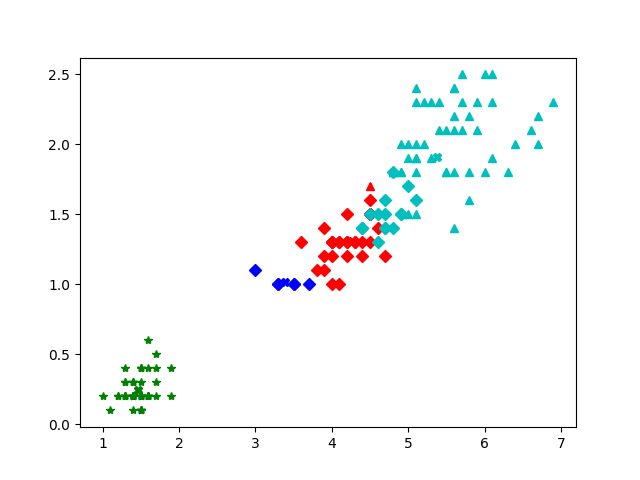
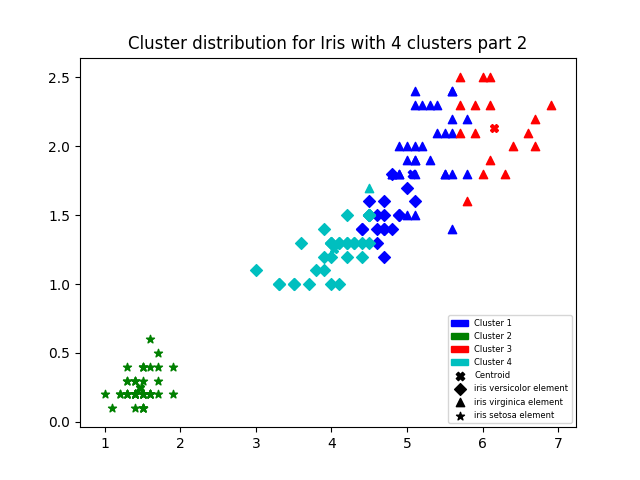
graficas con indices

diff --git a/irisCluster.py b/irisCluster.py
@@ -1,8 +1,10 @@
 import numpy as np
+from collections import OrderedDict
 from cluster import Cluster,kmeans,compress,createClusters
 import os.path
 import matplotlib.pyplot as plt
 import matplotlib.patches as mpatches
+import copy
 
 colors = ['b','g','r','c','m']
 file = open("iris-clean.txt",'r')
@@ -25,7 +27,7 @@ def splitData(data,percentage,output_num):
     return data_train,data_test
 
 if __name__ == '__main__':
-    k = 4
+    k = 3
     number_attributes = 4
     data = np.loadtxt("iris-clean.txt", delimiter=",")
     x, junk = splitData(data, 100, 1)
@@ -38,25 +40,78 @@ if __name__ == '__main__':
             if elem.emptyIndex():
                 ready = False
 
+
+    nclusters = len(clusters)
     
-    print("Number of clusters " + str(len(clusters)))
+    print("Number of clusters " + str(nclusters))
     for j in range(2):
-        for i in range(len(clusters)):
+        patches = []
+        names   = []
+        legend_labeler = [True,True,True,True]
+        plt.title("Cluster distribution for Iris with " + str(k) + " clusters part " + str(j+1))
+        for i in range(nclusters):
+            patches.append(mpatches.Patch(color=colors[i]))
+            names.append('Cluster '+str(i+1))
+        for i in range(nclusters):
             print("Cluster "+str(i+1))
             print(clusters[i])
             centroid = clusters[i].getCentroid()
             indexes = clusters[i].getPointsIndex()
-            plt.plot([centroid[0+j*2]],[centroid[1+j*2]],colors[i]+'X')
+            if legend_labeler[0]:
+                centroid_object = plt.scatter(centroid[0+j*2],centroid[1+j*2],c=colors[i],marker='X')
+                co_copy = copy.copy(centroid_object)
+                co_copy.set_facecolor('k')
+                patches.append(co_copy)
+                names.append('Centroid')
+                legend_labeler[0] = False
+            else:
+                plt.plot([centroid[0+j*2]],[centroid[1+j*2]],colors[i]+'X')
             for elem in indexes:
                 marker = ''
+                index_label = ''
+                act = data[elem]
                 if elem < 50:
                     marker = '*'
+                    index_label = "iris setosa element"
+                    if legend_labeler[1]:
+                        obj = plt.scatter(act[0+j*2],act[1+j*2],c=colors[i],marker=marker)
+                        obj_copy = copy.copy(obj)
+                        obj_copy.set_facecolor('k')
+                        patches.append(obj_copy)
+                        names.append(index_label)
+                        legend_labeler[1] = False
+                    else:
+                        plt.scatter(act[0+j*2],act[1+j*2],c=colors[i],marker=marker)
                 elif elem >= 50 and elem < 100:
                     marker = 'D'
+                    index_label = "iris versicolor element"
+                    if legend_labeler[2]:
+                        obj = plt.scatter(act[0+j*2],act[1+j*2],c=colors[i],marker=marker)
+                        obj_copy = copy.copy(obj)
+                        obj_copy.set_facecolor('k')
+                        patches.append(obj_copy)
+                        names.append(index_label)
+                        legend_labeler[2] = False
+                    else:
+                        plt.scatter(act[0+j*2],act[1+j*2],c=colors[i],marker=marker)
                 elif elem >= 100:
                     marker = '^'
-                act = data[elem]
-                plt.plot([act[0+j*2]],[act[1+j*2]],colors[i]+marker)
+                    index_label = "iris virginica element"
+                    if legend_labeler[3]:
+                        obj = plt.scatter(act[0+j*2],act[1+j*2],c=colors[i],marker=marker)
+                        obj_copy = copy.copy(obj)
+                        obj_copy.set_facecolor('k')
+                        patches.append(obj_copy)
+                        names.append(index_label)
+                        legend_labeler[3] = False
+                    else:
+                        plt.scatter(act[0+j*2],act[1+j*2],c=colors[i],marker=marker)
+                
+                
+                
+        handles,labels = plt.gca().get_legend_handles_labels()
+        by_label = OrderedDict(zip(labels, handles))
+        plt.legend(patches,names,loc="lower right",scatterpoints=1, fontsize=6)
         plt.savefig(os.path.splitext(os.path.basename("k" + str(k) + "-" + str(j+1)))[0] + '.png')
         plt.clf()
     #plt.show()
